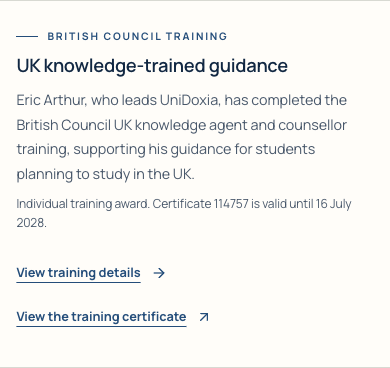
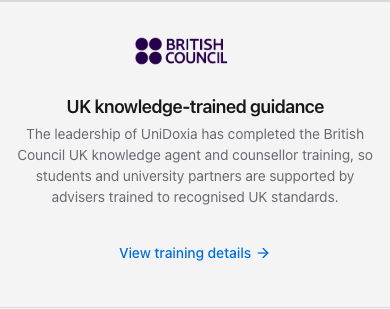
Match original British Council section to supplied reference

diff --git a/src/components/landing/home.css b/src/components/landing/home.css
@@ -442,18 +442,23 @@ html:has(.udx-home) { scroll-padding-bottom: 80px; }
 .udx-contact-content form button[type="submit"] { min-height: 48px; border-radius: 5px; box-shadow: none; background: var(--udx-navy); color: #fff; }
 @media (min-width: 768px) { .udx-contact-content { grid-template-columns: minmax(0, 1fr) minmax(0, 1fr); } }
 
-/* Restore the original homepage's prominent training strip below search. */
-.udx-training { border-bottom: 1px solid var(--udx-line); background: var(--udx-white); }
-.udx-training-inner { display: grid; gap: 18px 40px; padding-top: 28px; padding-bottom: 28px; }
-.udx-training .udx-kicker { font-size: .65rem; margin-bottom: 10px; }
-.udx-training h2 { font: 600 1.15rem / 1.4 var(--udx-sans); letter-spacing: -.015em; }
-.udx-training-description { margin-top: 9px; max-width: 78ch; font-size: .9rem; line-height: 1.7; color: var(--udx-muted); }
-.udx-training-detail { margin-top: 8px; font-size: .75rem; line-height: 1.6; color: var(--udx-muted); }
-.udx-training-links { display: flex; flex-wrap: wrap; align-content: center; gap: 0 24px; }
-.udx-training-links .udx-text-link { min-height: 44px; font-size: .8rem; }
+/* Match Eric's supplied reference and the original homepage training strip. */
+.udx-training { border-top: 1px solid hsl(var(--border, 240 6% 85%)); border-bottom: 1px solid hsl(var(--border, 240 6% 85%)); background: #f4f4f5; font-family: -apple-system, BlinkMacSystemFont, "SF Pro Text", "SF Pro Display", "Helvetica Neue", Arial, sans-serif; color: hsl(var(--foreground, 240 6% 10%)); }
+.udx-training-inner { max-width: 1280px; margin-inline: auto; padding: 32px 16px; display: flex; flex-direction: column; gap: 24px; text-align: center; }
+.udx-training-main { display: flex; flex-direction: column; align-items: center; gap: 20px; min-width: 0; }
+.udx-training-logo { height: 40px; width: auto; flex: none; }
+.udx-training h2 { font: 600 1.25rem / 1.4 -apple-system, BlinkMacSystemFont, "SF Pro Text", "SF Pro Display", "Helvetica Neue", Arial, sans-serif; letter-spacing: -.025em; }
+.udx-training-description { margin-top: 4px; max-width: 672px; font-size: 1rem; line-height: 1.5; color: hsl(var(--muted-foreground, 240 4% 46%)); }
+.udx-training-link { display: inline-flex; align-items: center; justify-content: center; align-self: center; gap: 4px; flex: none; min-height: 44px; font-size: .875rem; line-height: 1.25rem; font-weight: 500; color: hsl(var(--primary, 211 100% 44%)); text-underline-offset: 4px; }
+.udx-training-link:hover { text-decoration: underline; }
+.udx-training-link svg { flex: none; }
+.dark .udx-training { background: #18181a; border-color: #3f3f46; }
+.dark .udx-training-logo { filter: brightness(0) invert(1); }
 .udx-assurance > div:only-child { grid-column: 1 / -1; }
 .udx-assurance > div:only-child p { max-width: 85ch; }
-@media (min-width: 960px) {
-  .udx-training-inner { grid-template-columns: minmax(0, 1fr) auto; align-items: center; }
-  .udx-training-links { flex-direction: column; align-items: flex-start; }
+@media (min-width: 768px) {
+  .udx-training { margin-inline: 30px; }
+  .udx-training-inner { flex-direction: row; align-items: center; justify-content: space-between; text-align: left; }
+  .udx-training-main { flex-direction: row; }
 }
+@media (max-width: 639px) { .udx-training h2 { font-size: 1.125rem; } .udx-training-description { font-size: .875rem; line-height: 1.5; } }

diff --git a/src/pages/Index.tsx b/src/pages/Index.tsx
@@ -142,17 +142,15 @@ export default function Index() {
         <HomeSearch />
 
         <section className="udx-training" aria-labelledby="uk-knowledge-trained-heading">
-          <div className="udx-wrap udx-training-inner">
-            <div>
-              <p className="udx-kicker">British Council training</p>
-              <h2 id="uk-knowledge-trained-heading">{homeTraining.title}</h2>
-              <p className="udx-training-description">{homeTraining.text}</p>
-              <p className="udx-training-detail">{homeTraining.detail}</p>
+          <div className="udx-training-inner">
+            <div className="udx-training-main">
+              <img className="udx-training-logo" src={homeTraining.logo} width={320} height={89} alt="British Council" loading="lazy" />
+              <div>
+                <h2 id="uk-knowledge-trained-heading">{homeTraining.title}</h2>
+                <p className="udx-training-description">{homeTraining.text}</p>
+              </div>
             </div>
-            <div className="udx-training-links">
-              <Link className="udx-text-link" to={homeTraining.href}>{homeTraining.label}<ArrowRight size={16} aria-hidden="true" /></Link>
-              <a className="udx-text-link" href={homeTraining.certificateHref}>View the training certificate<ArrowUpRight size={16} aria-hidden="true" /></a>
-            </div>
+            <Link className="udx-training-link" to={homeTraining.href}>{homeTraining.label}<ArrowRight size={16} aria-hidden="true" /></Link>
           </div>
         </section>
 

diff --git a/tests/e2e/home-photography.spec.ts b/tests/e2e/home-photography.spec.ts
@@ -41,10 +41,12 @@ test('the badge is attached to Eric Arthur on his personal page and its PDF work
   await expect(page.locator('#site-first-paint')).toHaveCount(0);
   await expect(page.locator('img[src*="knowledge-badge"]')).toHaveCount(0);
   const training = page.getByRole('region', { name: 'UK knowledge-trained guidance', exact: true });
-  await expect(training).toContainText('Eric Arthur, who leads UniDoxia');
-  await expect(training).toContainText('Individual training award');
-  await expect(training.getByRole('link', { name: 'View the training certificate', exact: true })).toHaveAttribute('href', '/credentials/eric-arthur-uk-knowledge-training-certificate.pdf');
+  await expect(training.getByRole('img', { name: 'British Council', exact: true })).toBeVisible();
+  await expect(training).toContainText('The leadership of UniDoxia has completed the British Council UK knowledge agent and counsellor training');
+  await expect(training.getByRole('link')).toHaveCount(1);
   await training.getByRole('link', { name: 'View training details', exact: true }).click();
+  await expect(page).toHaveURL(/\/about$/);
+  await page.getByRole('link', { name: 'View Eric Arthur’s individual training and badge', exact: true }).click();
   await expect(page).toHaveURL(/\/about\/eric-arthur$/);
   await expect(page.getByRole('heading', { level: 1, name: 'Eric Arthur', exact: true })).toBeVisible();
   await expect(page.getByText(/This training and badge belong to Eric Arthur as an individual/)).toBeVisible();

diff --git a/docs/HOMEPAGE-TRAINING-STRIP.md b/docs/HOMEPAGE-TRAINING-STRIP.md
@@ -1,17 +1,15 @@
-# British Council training information follow-up
+# British Council training strip: supplied-reference restoration
 
-7 November 2026. Eric requested the information to be presented like the existing production homepage. The actual production page was inspected and captured read-only.
+7 November 2026. Eric supplied a screenshot and explicitly requested its original logo, wording, layout and single action without editorial changes. This supersedes the earlier adapted strip.
 
-Restored its dedicated strip immediately after course search, the heading “UK knowledge-trained guidance” and the “View training details” action. The strip uses the redesigned site's typography and colours, with a restrained horizontal desktop layout and stacked mobile layout. The certificate remains directly accessible. The duplicate training text was removed from the application-journey section; service-fee guidance remains there.
+The section remains immediately after course search. It restores the original repository British Council logo, the exact “UK knowledge-trained guidance” heading and original paragraph, and the single “View training details” link to `/about`. Desktop uses the logo, description and right-aligned action; mobile stacks the same content. The dark version matches the supplied charcoal background and white logo. Light mode uses the original purple logo. The added eyebrow, certificate line and second action have been removed.
 
-Wording identifies Eric Arthur as the trained individual, retains certificate 114757 and its 16 July 2028 validity date, and links to his personal badge page. It does not assert company accreditation or that every adviser has completed this training. The old standalone British Council logo was not copied: no separate authorisation for corporate logo use has been established. The awarded personal badge remains unaltered on Eric's personal profile.
+The individual training badge, certificate PDFs and explanatory information remain on the existing About and personal-profile routes. Their original assets and wording were not altered. Other homepage sections, saved theme preferences and the first-visit light default are unchanged. The logo is restored from the existing project at Eric's explicit direction; no new third-party endorsement or permission is asserted.
 
-The [British Council's official training page](https://www.britishcouncil.org/education/education-agents/training-agents) explicitly distinguishes the individual award from organisation accreditation. This was rechecked during this change.
+Eight focused desktop/mobile browser checks passed, covering the restored logo and single action, the About-to-personal-badge route and award PDF, and existing partner/social flows. Changed-file lint, diff whitespace checks and the production build passed, including 1,536 public SEO pages. Fresh 390/768/1440px full-page screenshots fit their viewport without page errors or sampled axe A/AA violations. Light and dark screenshots were inspected. Initial HTML includes the same logo, copy and single action without JavaScript.
 
-Eight existing desktop/mobile browser checks passed, including the updated training-details link, personal badge and PDF, partner routes and social links. Changed-file lint and the production build passed, including 1,536 public SEO pages. Fresh full-page 390/768/1440px screenshots were captured; all three layouts fit their viewport, defaulted to light, and had no page errors or sampled axe A/AA violations. The strip and both links are present without JavaScript. Mobile dark appearance was also captured. No new form submission, backend write, main merge or production deployment was made.
+![Desktop dark strip matching the reference](homepage-review/training-strip-desktop.png)
 
-![Desktop training strip](homepage-review/training-strip-desktop.png)
+![Mobile strip](homepage-review/training-strip-mobile.png)
 
-![Mobile training strip](homepage-review/training-strip-mobile.png)
-
-Full-page PNGs, the production baseline and raw check logs remain in the workspace outputs directories. Changes continue in PR #1288 on `redesign/public-homepage`.
+Full-page screenshots and raw logs are in the workspace `outputs/unidoxia-training-reference/` directory. The change remains on `redesign/public-homepage` in PR #1288. No new contact test, live data write, main-branch merge or production deployment was made.

diff --git a/public/home/ASSET-CREDITS.md b/public/home/ASSET-CREDITS.md
@@ -36,3 +36,7 @@ The current homepage uses original photographs, cropped and compressed for respo
 All are used under the [Pexels licence](https://www.pexels.com/license/). Images were selected for natural expressions, daylight, educational context and complementary warm neutral/blue-green colours. Exaggerated celebration and generic corporate document scenes were rejected. Hero files are prioritised; all added lower-page photographs are lazy-loaded. Responsive derivatives retain original faces and backgrounds.
 
 The British Council badge JPEG is the original 500 × 500 embedded image extracted unchanged from Eric Arthur's awarded `Badge.pdf`. It is shown only on his personal `/about/eric-arthur` page, at least 150px wide, in full colour with clear space. The original award PDF is linked. It is not an organisation badge and is not displayed on the business homepage. Placement follows the supplied `BCACTSBadgeGuidelines2026.pdf`, particularly pages 3–8 and 13. The isolated British Council logo was removed from the organisation About page.
+
+## Original training-strip reference restoration
+
+Following Eric's explicit supplied-screenshot instruction, the existing `src/assets/british-council-logo.png` was copied unchanged to `public/home/british-council-logo.png` for the original homepage training strip and its initial HTML. The original purple image is displayed in light mode and the original site's white filter treatment in dark mode. This restores a pre-existing brand asset at the owner's request; it is separate from the awarded individual badge and does not establish new permission or endorsement.

diff --git a/docs/HOMEPAGE-FINAL-QA.md b/docs/HOMEPAGE-FINAL-QA.md
@@ -1,6 +1,8 @@
 # UniDoxia final homepage quality review
 
-**Subsequent requested refinement:** [Restored prominent British Council training strip](HOMEPAGE-TRAINING-STRIP.md), with the old heading and placement below course search. The personal badge and direct certificate access remain.
+**Latest supplied-reference refinement:** Restored the exact original logo, paragraph and single `/about` training-details action at Eric’s explicit request. See [training-strip follow-up](HOMEPAGE-TRAINING-STRIP.md).
+
+**Earlier refinement:** [Restored prominent British Council training strip](HOMEPAGE-TRAINING-STRIP.md), with the old heading and placement below course search. The personal badge and direct certificate access remain.
 
 Reviewed on 7 November 2026 for [PR #1288](https://github.com/Otsikow/unidoxia/pull/1288), branch `redesign/public-homepage`. This report supersedes the earlier build audit for the checks and changes below. The local preview is http://127.0.0.1:4192/. No production code, catalogue records, database permissions or deployment was changed. One explicitly approved live contact-form test was submitted.
 
